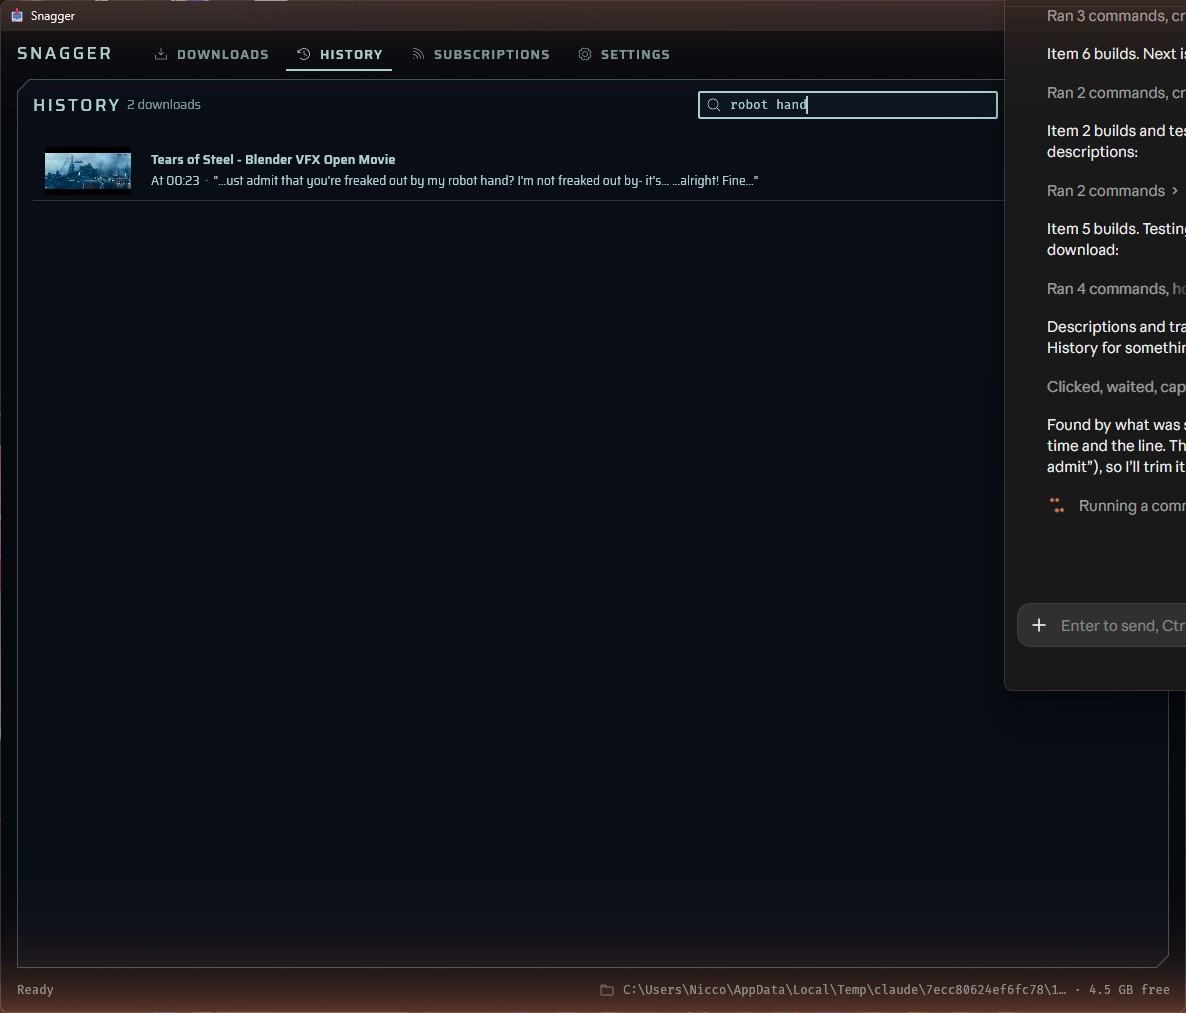
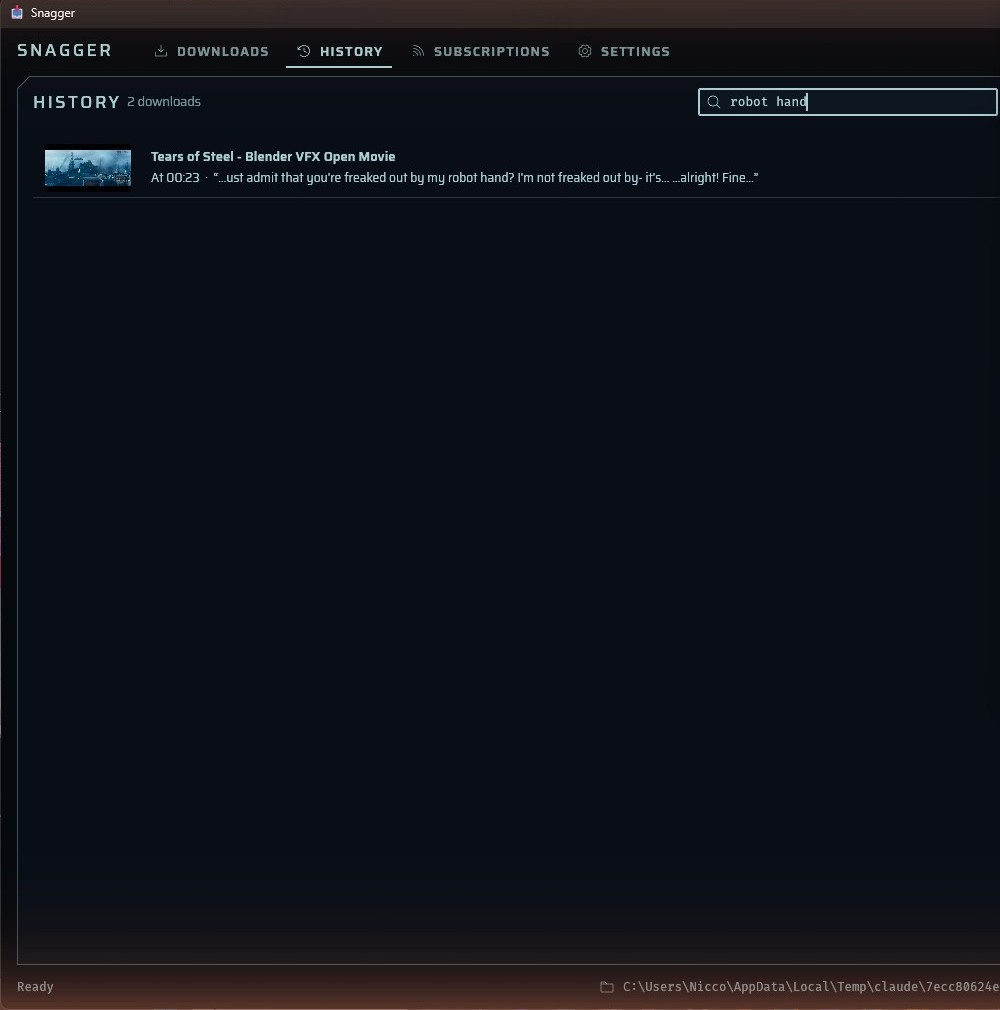
Prepare for a public repository
- LICENSE (MIT, as Cargo.toml already said); README gets a screenshot,
  "Windows 10 and 11, build it first" and a License section.
- Crop the history-search screenshot to the Snagger window.

diff --git a/README.md b/README.md
@@ -7,6 +7,8 @@ Paste a link from YouTube, TikTok, Instagram, X, Reddit, Facebook, Vimeo,
 Twitch, SoundCloud or any of the 1,800+ sites yt-dlp supports, pick a quality,
 and the file lands in `Downloads\Snagger`.
 
+![Snagger's queue with a finished download's menu open](docs/screens/16-get-transcript.jpg)
+
 ## Look
 
 Snagger 2.6 looks like a command console: one pale ice-blue line colour on
@@ -17,7 +19,8 @@ in `docs/screens`.
 
 ## Run it
 
-Double-click **Snagger.exe**. The first launch fetches the download engine
+Snagger runs on Windows 10 and 11. Build it (see [Build](#build)), then
+double-click **Snagger.exe**. The first launch fetches the download engine
 (about 110 MB, from the projects' own GitHub releases) and then you're ready.
 
 ## What it does
@@ -191,3 +194,8 @@ The app is `target\release\Snagger.exe`. `cargo test` runs the unit tests.
 
 Only download videos you have the right to keep: your own uploads, Creative
 Commons work, or videos the creator allows you to save.
+
+## License
+
+MIT, see [LICENSE](LICENSE). The fonts, icons and app icon keep their own
+licences (listed under Credits).
